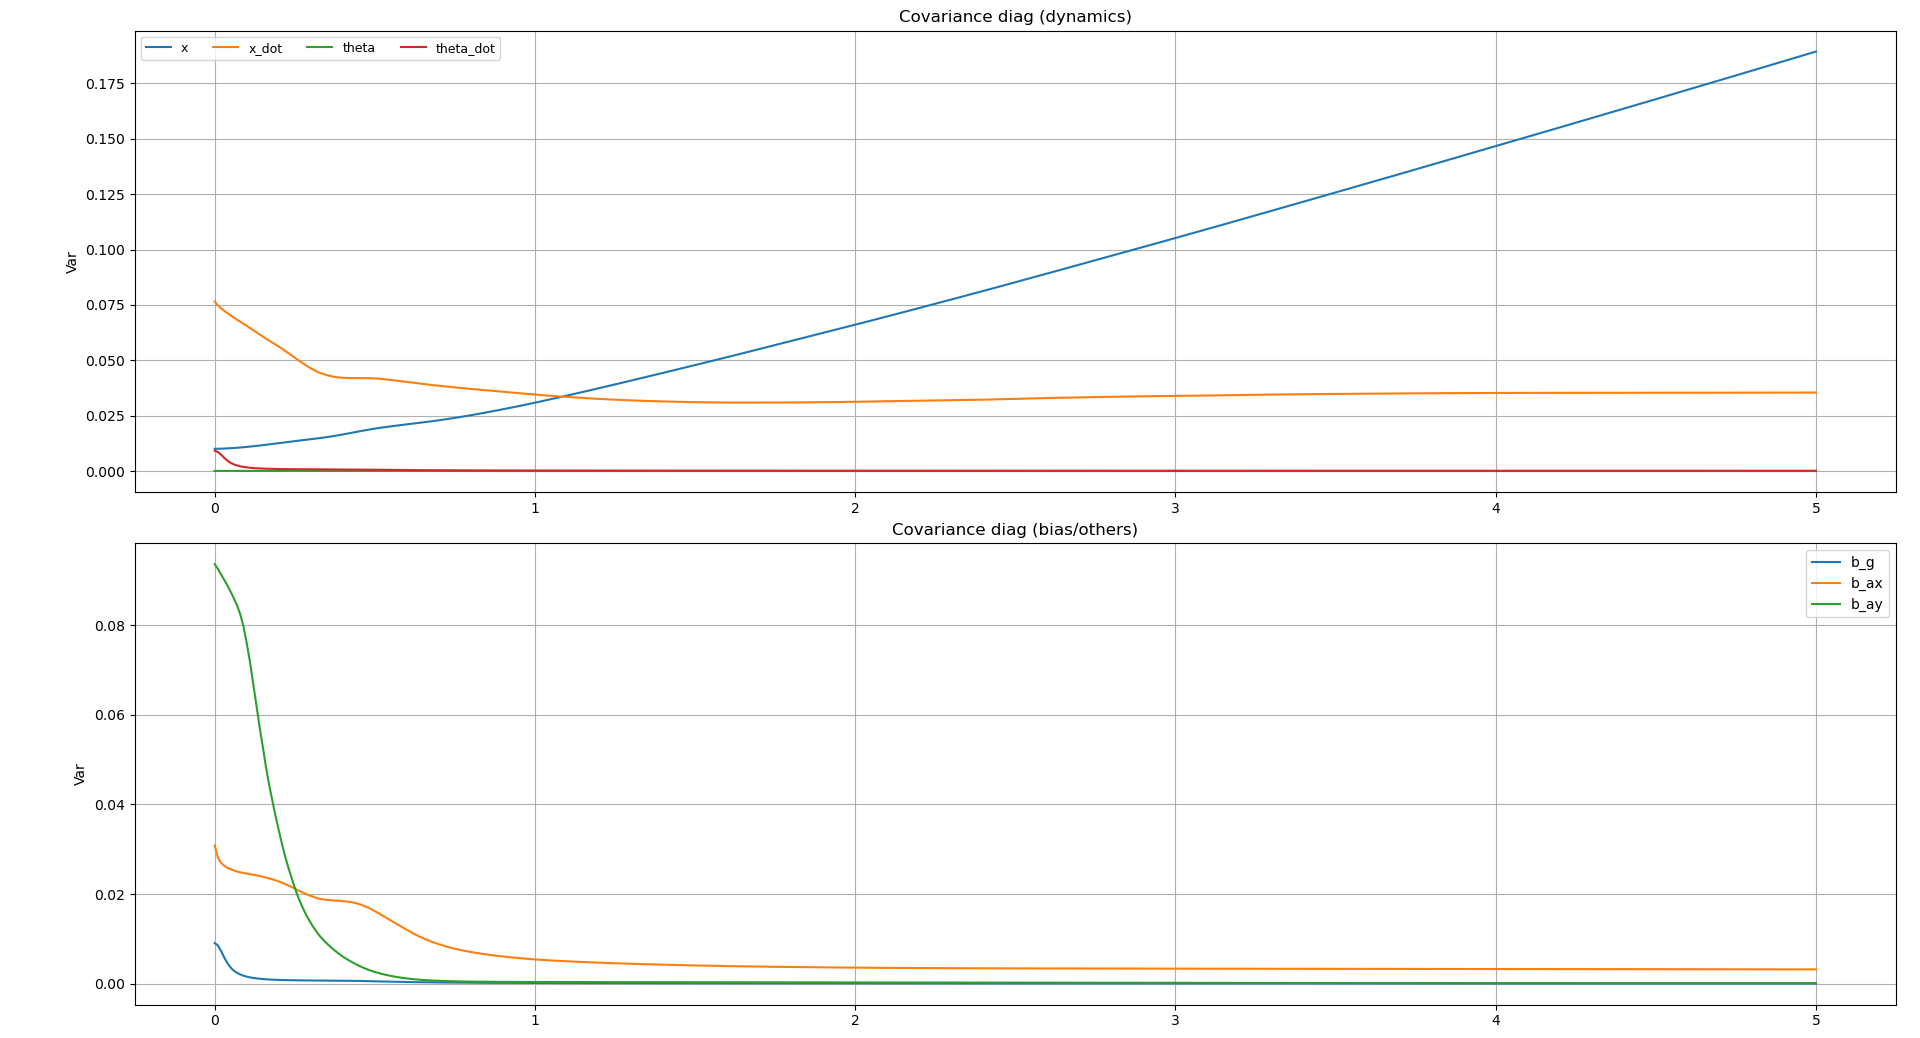
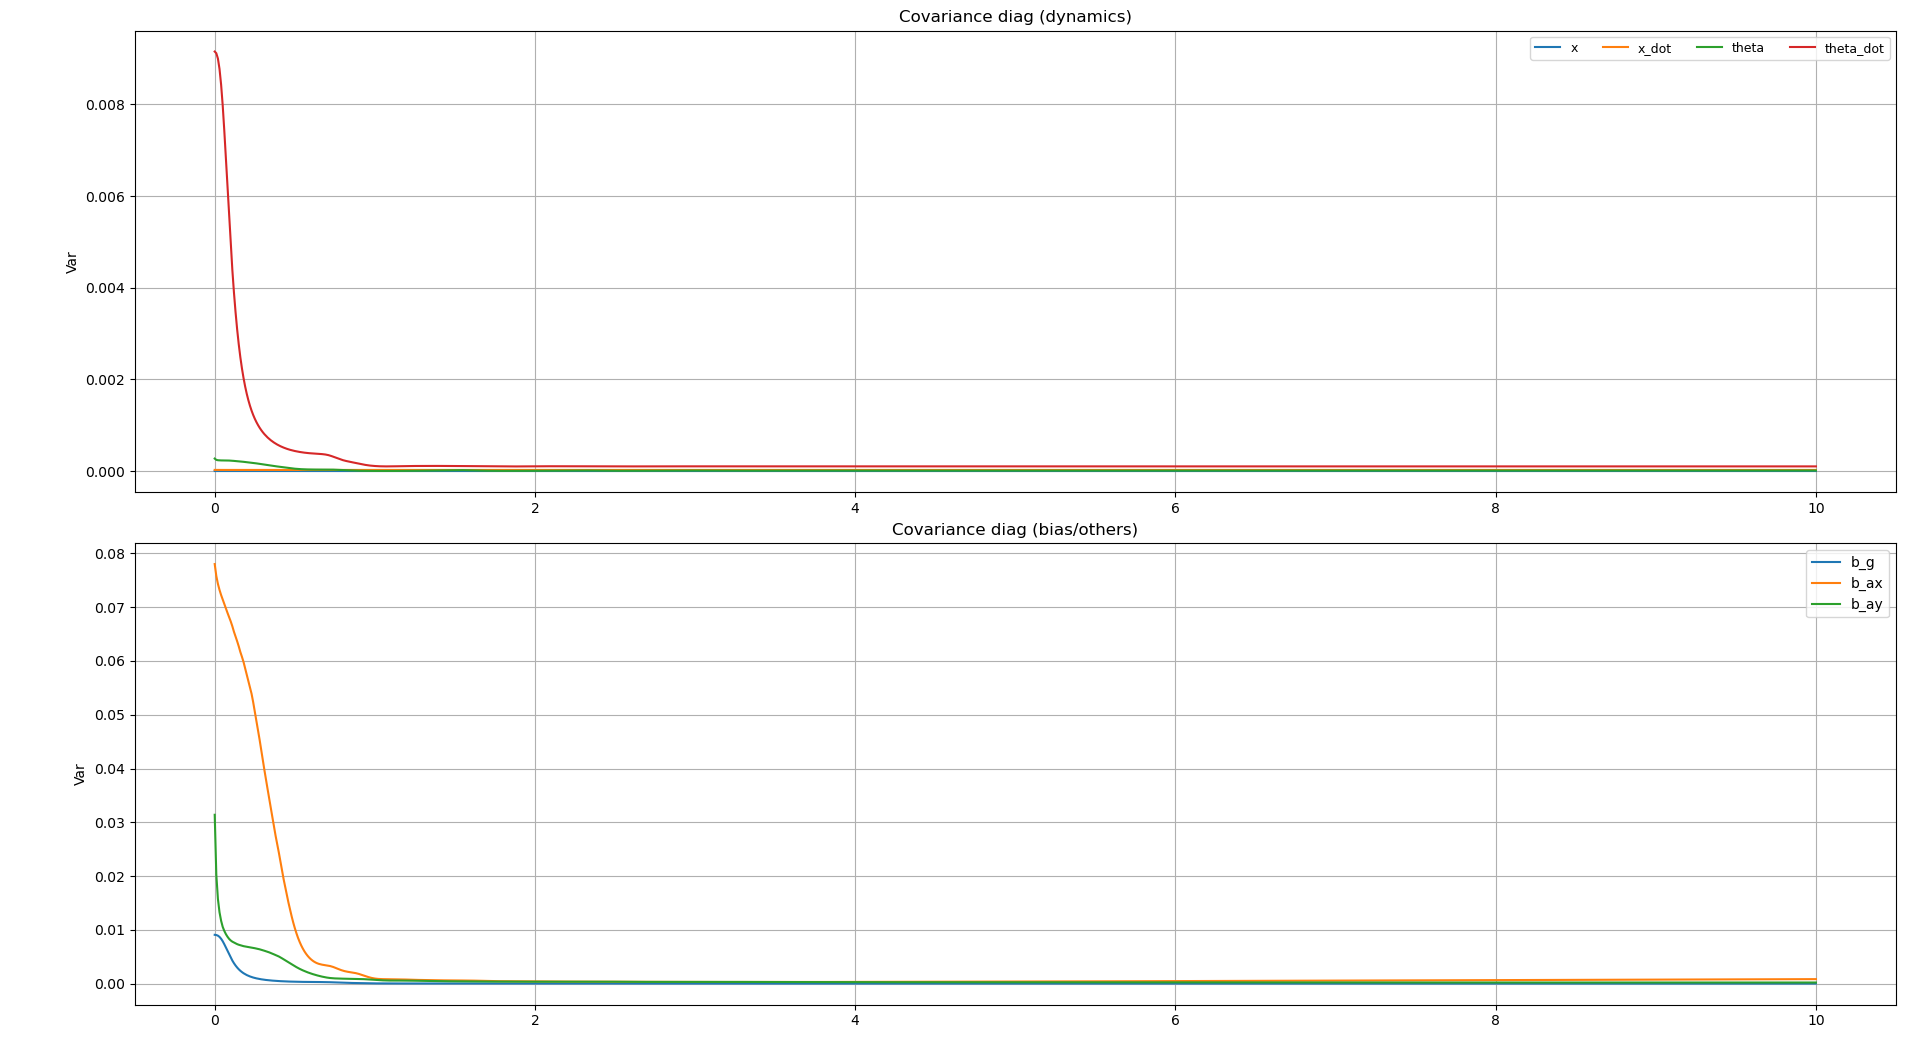
Updated EKF plots

diff --git a/simulator.py b/simulator.py
@@ -241,6 +241,20 @@ def run_simulate_ekf_only(system, T, dt):
         state_est_history=results["x_meas"],
         est_trace=True,
     )
+    state_labels = ["x", "x_dot", "theta", "theta_dot", "b_g", "b_ax", "b_ay"]
+    meas_labels = ["x", "x_dot", "omega", "acc_x", "acc_y"]
+    plot_kalman_gain(
+        results["time"],
+        results["K"],
+        meas_labels=meas_labels,
+        state_labels=state_labels,
+    )
+    plot_ekf_statistics(
+        results["time"],
+        P_diag=results["P"],
+        meas_labels=meas_labels,
+        state_labels=state_labels,
+    )
 
 
 if __name__ == "__main__":
@@ -252,7 +266,7 @@ if __name__ == "__main__":
     T = 10.0
     dt = 0.01
 
-    run_simulate_imu_only(system, T, dt)
+    # run_simulate_imu_only(system, T, dt)
     run_simulate_ekf_only(system, T, dt)
 
     # x0 = np.array([0.0, -0.5, np.deg2rad(45), -0.01])
@@ -279,17 +293,6 @@ if __name__ == "__main__":
     #     stats,
     # ) = simulate_with_imu_and_ekf(system, imu, x0, T, dt, controller=lqr)
     #
-    # state_labels = ["x", "x_dot", "theta", "theta_dot", "b_g", "b_ax", "b_ay"]
-    # meas_labels = ["omega", "acc_x", "acc_y"]
-    # plot_kalman_gain(
-    #     time, stats["K_hist"], meas_labels=meas_labels, state_labels=state_labels
-    # )
-    # plot_ekf_statistics(
-    #     time,
-    #     P_diag=stats["P_diag_hist"],
-    #     meas_labels=meas_labels,
-    #     state_labels=state_labels,
-    # )
     #
     # plot_imu_ekf_error_overlay(
     #     time=time,

diff --git a/sensors/imu.py b/sensors/imu.py
@@ -12,16 +12,19 @@ class IMU:
         self,
         gyro_bias=0.02,
         accel_bias=np.array([0.1, -0.05]),
-        gyro_noise_std=0.001,
+        gyro_noise_std=0.01,
         gyro_bg_rw_std=0.1,
-        accel_noise_std=0.1,
+        acc_bg_rw_std=0.1,
+        accel_noise_std=0.2,
         gravity=9.81,
         seed=100,
     ):
 
         self.bg0 = gyro_bias
+        self.ba0 = accel_bias
         self.bg = gyro_bias
         self.bg_rw_std = gyro_bg_rw_std
+        self.ba_rw_std = acc_bg_rw_std
         self.ba = accel_bias
         self.gyro_noise_std = gyro_noise_std
         self.accel_noise_std = accel_noise_std
@@ -41,10 +44,12 @@ class IMU:
         )
 
         self.bg += self.rng.normal(0.0, self.bg_rw_std * np.sqrt(dt))
+        self.ba += self.rng.normal(0.0, self.ba_rw_std * np.sqrt(dt))
         return omega_meas, accel_meas
 
     def reset(self):
         self.bg = self.bg0
+        self.ba = self.ba0
         self.rng = np.random.default_rng(self.seed)
 
 
